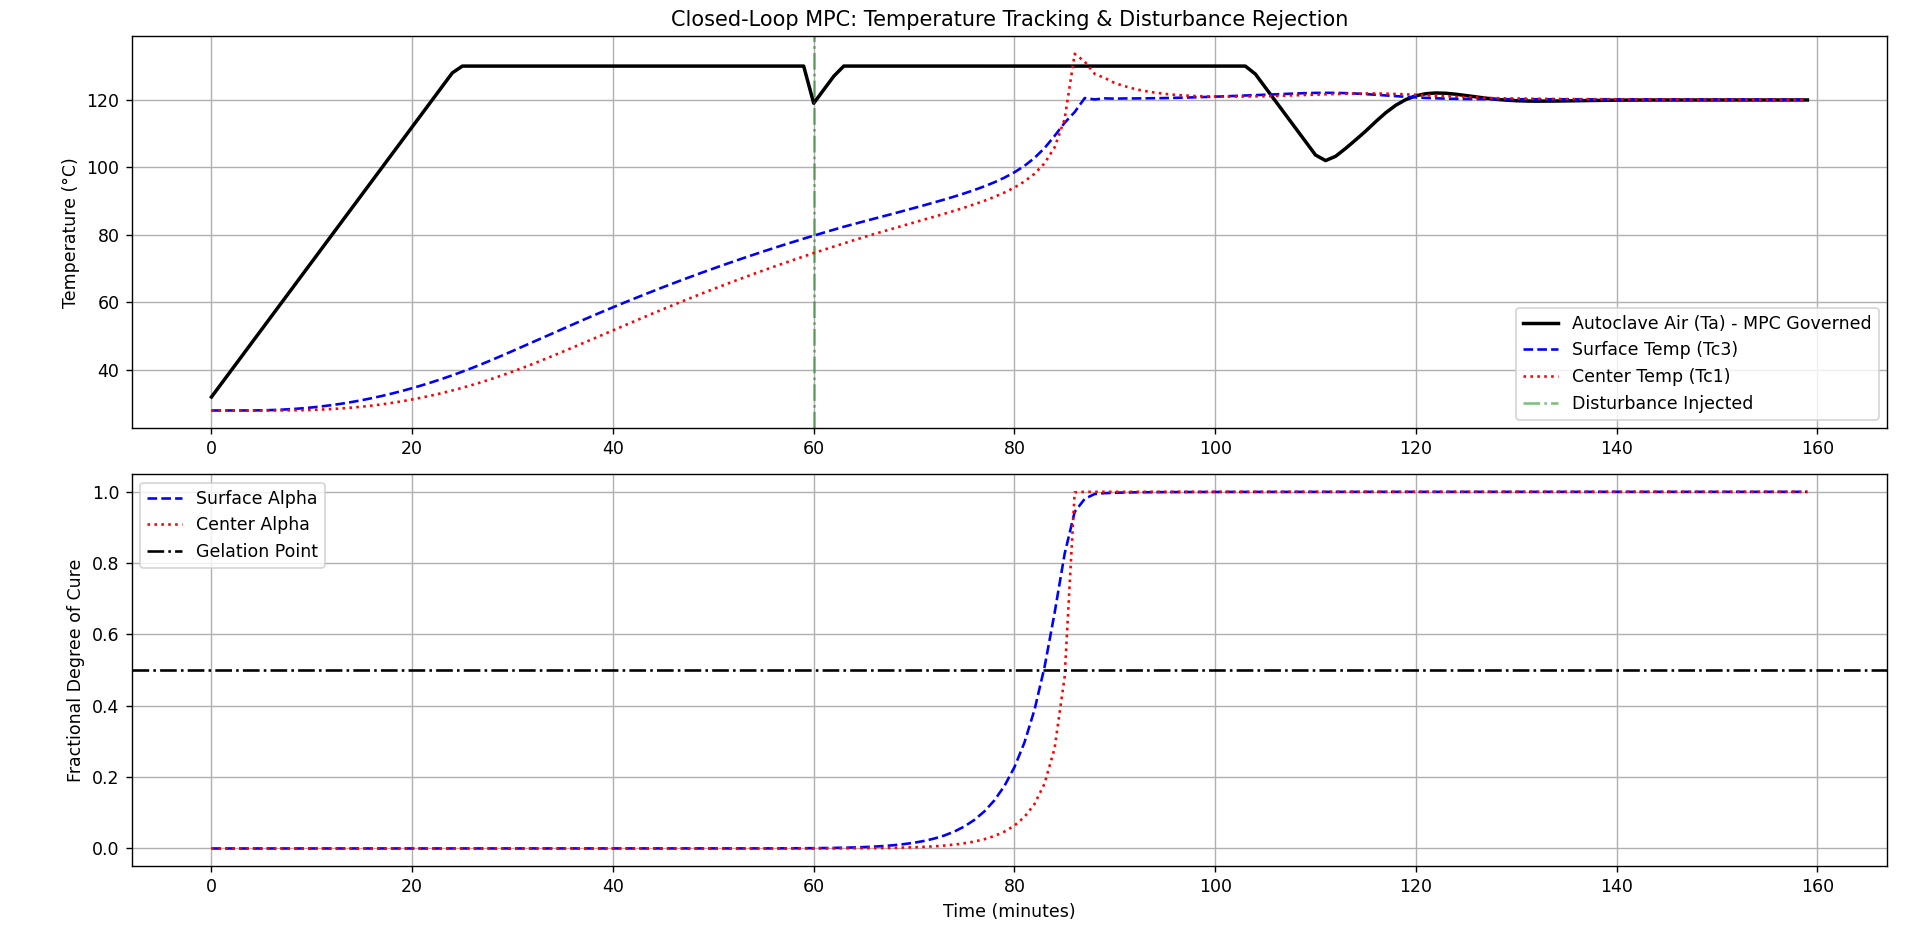
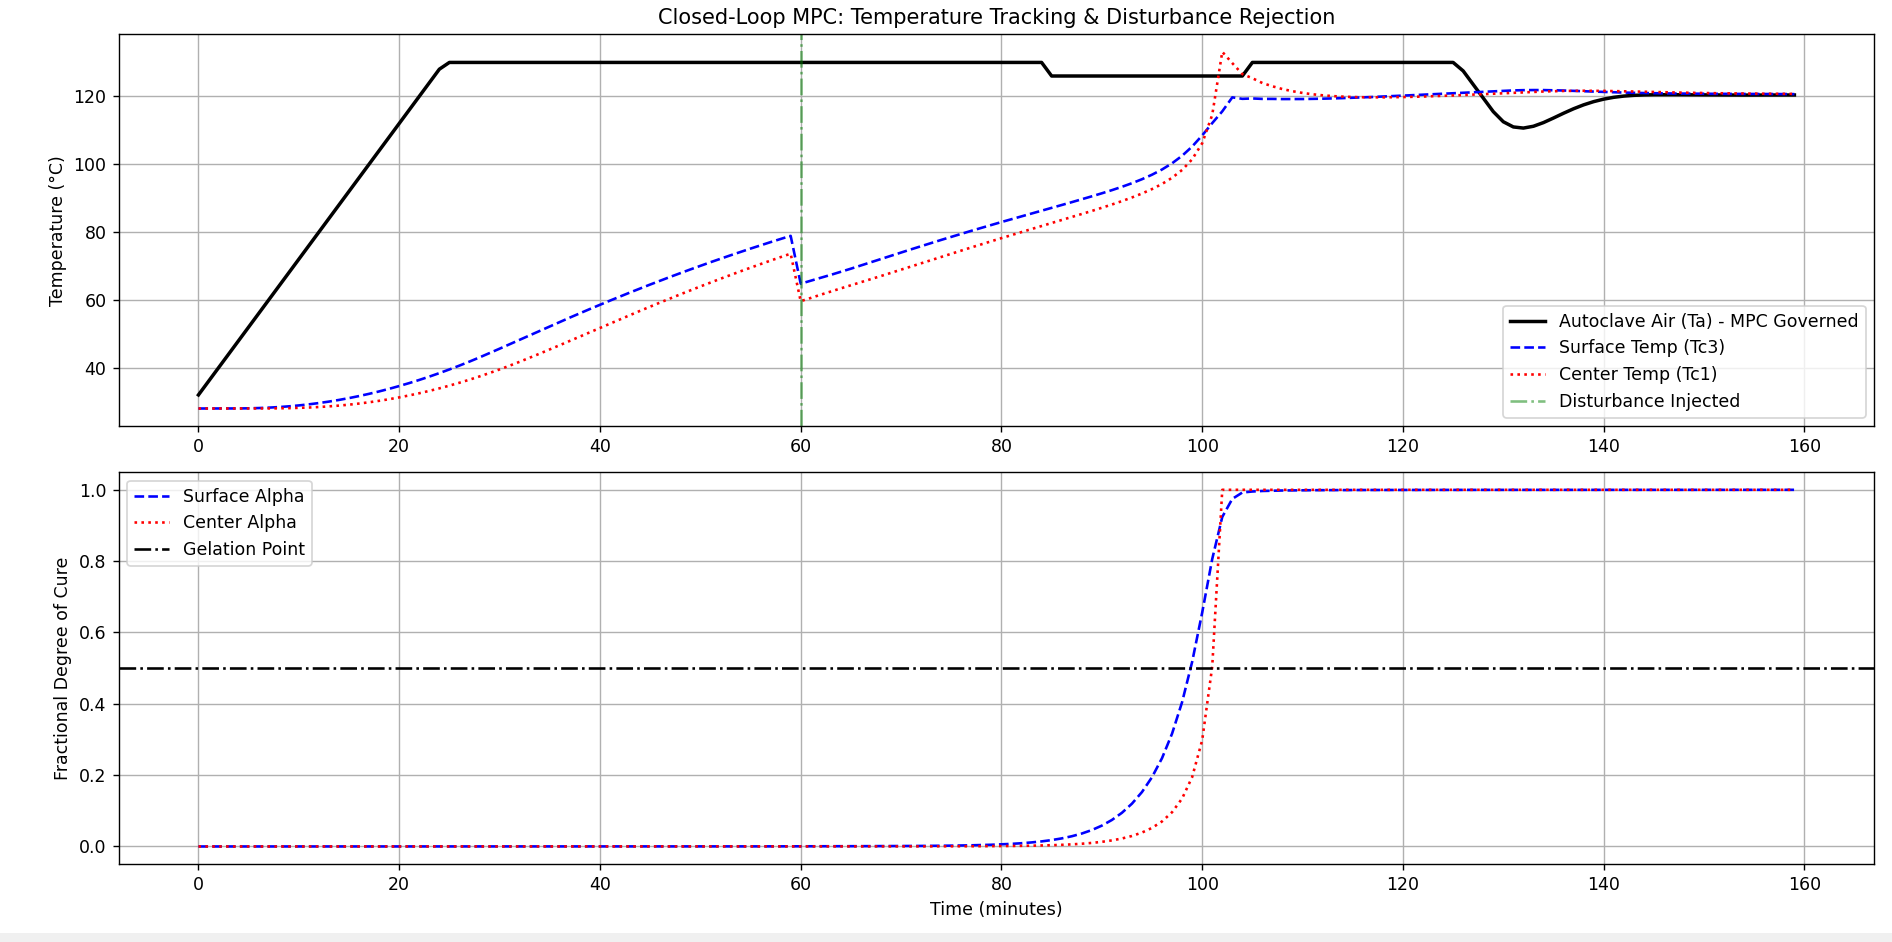
disturbance correctly implemented

diff --git a/tests/test_closed_loop.py b/tests/test_closed_loop.py
@@ -31,24 +31,27 @@ def run_closed_loop():
     Ta_profile = []
     solve_times = []
     gradient_violations = 0
-    
+
     current_Ta = 28.0
     current_state = plant.get_state()
 
     print("Starting Closed-Loop MPC Simulation with Disturbance...")
     
-    for k in range(time_steps):
-        # INJECT DISTURBANCE: Sudden drop in oven temp at t=60 mins
-        if k == 60:
-            print(">> INJECTING DISTURBANCE: Ta drops by 15 degrees!")
-            current_Ta -= 15.0
-            
-        # 1. Controller calculates next move
+    for k in range(time_steps):            
+        # 1. Controller calculates its planned optimal move based on current sensors
         current_Ta, s_time = controller.compute_control_action(current_state, current_Ta)
         solve_times.append(s_time)
-        Ta_profile.append(current_Ta)
+
+        # INJECT DISTURBANCE: Sudden drop in oven temp at t=60 mins
+        # This overrides the controller's plan and forces a physical shock to the oven
+        if k == 60:
+            print(">> INJECTING DISTURBANCE: Part looses 15 degrees of thermal energy")
+            plant.T_comp-=15.0
+            plant.T_tool-=15.0
         
-        # 2. Plant executes move
+        Ta_profile.append(current_Ta) # Log the actual applied temperature
+        
+        # 2. Plant executes the actual physical move
         current_state = plant.step(Ta_input=current_Ta)
         
         # 3. Log data
@@ -69,9 +72,6 @@ def run_closed_loop():
     max_temp_reached = max(max(history_Tc1), max(history_Tc3))
     max_overshoot = max(0.0, max_temp_reached - target_temp)
     
-    # Cure Uniformity: Delta Alpha at the end of the simulation
-    final_delta_alpha = abs(history_ac3[-1] - history_ac1[-1])
-    
     # Cure Uniformity: Max Delta Alpha during the critical gelation phase
     max_delta_alpha = max(np.abs(np.array(history_ac3) - np.array(history_ac1)))
     
@@ -79,7 +79,6 @@ def run_closed_loop():
 
     print("\n--- PHASE 3: MPC CONTROLLER METRICS ---")
     print(f"Max Temp Overshoot:    {max_overshoot:.2f} °C")
-    print(f"Final Cure Uniformity: {final_delta_alpha:.4f} (Delta Alpha)")
     print(f"Max Cure Delta:        {max_delta_alpha:.4f} (Delta Alpha during cure)")
     print(f"Constraint Violations: {gradient_violations}")
     print(f"Avg Solver Time/Step:  {avg_solve_time:.2f} ms")

diff --git a/src/mpc_cvxpy_controller.py b/src/mpc_cvxpy_controller.py
@@ -130,8 +130,14 @@ class MPCSolver:
             prob.solve(solver=cp.OSQP, warm_start=True)
             solve_time = (time.time() - start_time) * 1000 # Convert to ms
             
+            if prob.status in ['optimal_inaccurate', cp.OPTIMAL_INACCURATE]:
+                print(f" MPC LOG: Solve status '{prob.status}'. Linear approximation is struggling with the exotherm!")
+            
             if u.value is None:
+                print(f" MPC WARNING: Solver returned None. Falling back to previous input: {u_prev:.2f}°C")
                 return u_prev, solve_time
             return u.value[0, 0], solve_time
-        except Exception:
+        except Exception as e:
+            print(f" MPC CRITICAL ERROR: Solver crashed! Exception: {e}")
+            print(f" Falling back to previous input: {u_prev:.2f}°C")
             return u_prev, (time.time() - start_time) * 1000

diff --git a/README.md b/README.md
@@ -6,7 +6,7 @@
 ![Status](https://img.shields.io/badge/Status-Phase_3_Complete-success)
 
 ## Overview
-This repository contains the simulation environment and control architecture for optimizing the autoclave curing process of thick-sectioned composite laminates. The project aims to replace mathematically heavy, open-loop curing cycles with real-time, closed-loop Model Predictive Control (MPC), and ultimately, highly efficient event-driven Spiking Neural Networks (SNNs).
+This repository contains the simulation environment and control architecture for optimizing the autoclave curing process of thick-sectioned composite laminates. The project aims to replace unmanaged open-loop curing cycles with real-time closed-loop Model Predictive Control (MPC), and ultimately to demonstrate that an event-driven Spiking Neural Network (SNN) solver can correctly close the same MPC loop — producing equivalent control quality while being architecturally suited to low-power neuromorphic and FPGA edge deployment.
 
 The core physical plant is modeled based on the highly non-linear Arrhenius curing kinetics and 1D spatial heat transfer dynamics detailed in Dufour et al. (2004).
 
@@ -25,17 +25,19 @@ This research is divided into four main phases:
 - [x] **Phase 3: Closed-Loop CVXPY Baseline**
   - Integration of an active-set/interior-point QP solver (CVXPY) into the simulation loop.
   - Enforcement of real-time spatial constraints (10°C max gradient) to prevent residual thermal stress.
-  - Successfully demonstrated dynamic disturbance rejection and active cooling ("Thermal Braking") during the exothermic gelation phase.
+  - Verified active cooling ("Thermal Braking") during the exothermic gelation phase; disturbance rejection tested via a 15°C step perturbation injected directly into the plant state at step 60.
 - [ ] **Phase 4: Neuromorphic SNN Integration (In Progress)**
-  - Mapping the QP objective landscape to an event-driven Spiking Neural Network.
-  - Bypassing heavy matrix inversion to achieve microsecond, low-power adaptive control suitable for aerospace manufacturing edge devices.
+  - Mapping each per-step MPC QP to an equivalent spiking LIF dynamical system (Mancoo et al. equivalence framework).
+  - Validating that SNN-QP produces the same per-step control actions and closed-loop trajectories as CVXPY, within tolerance.
+  - Reporting convergence behaviour (iterations to tolerance) as the primary solver metric.
+  - Deployment value lies in neuromorphic/FPGA hardware (event-driven, massively parallel); CPU runtime is not the comparison axis.
 
 ## Baseline Metrics (Classical MPC)
-Running the Phase 3 closed-loop solver on a standard local machine yields the following baseline for the Spiking Neural Network to beat:
-* **Max Temp Overshoot:** ~13.6°C (Safely contained below degradation limits)
-* **Final Cure Uniformity:** 0.0000 Δα (Perfect structural integrity)
-* **Constraint Violations:** 2 (Due to linearized stiffness during exothermic spike)
-* **Average Compute Time:** ~120 ms/step 
+Running the Phase 3 closed-loop solver establishes the following reference for SNN-QP equivalence validation:
+* **Max Temp Overshoot:** ~13.12°C (Safely contained below degradation limits)
+* **Peak In-Process Cure Gradient:** ~0.36 Δα (Maximum spatial non-uniformity during gelation)
+* **Constraint Violations:** 1 (During exothermic spike, logged for reference)
+* **Average Compute Time:** ~120 ms/step (CPU reference; not used as a comparison target — see Phase 4)
 
 ## Visualizing Control Performance
 
@@ -47,7 +49,7 @@ In the unmanaged open-loop baseline, the autoclave air follows a static, pre-pro
 ### Phase 3: Closed-Loop MPC Active Control
 With the CVXPY MPC active, the solver's prediction horizon anticipates the exponential exothermic heat generation. Before the center temperature can critically overshoot, the controller dynamically drops the autoclave temperature (engaging a "Thermal Brake" around t=105 mins) to pull excess heat out of the composite surface. This contains the internal spike and ensures the center and surface cure uniformly ($\Delta \alpha = 0$).
 
-![Closed-Loop MPC Performance](assets/closedloop_test.png)
+![Closed-Loop MPC Performance](assets\closedloop_test.png)
 
 ## Repository Structure
 
